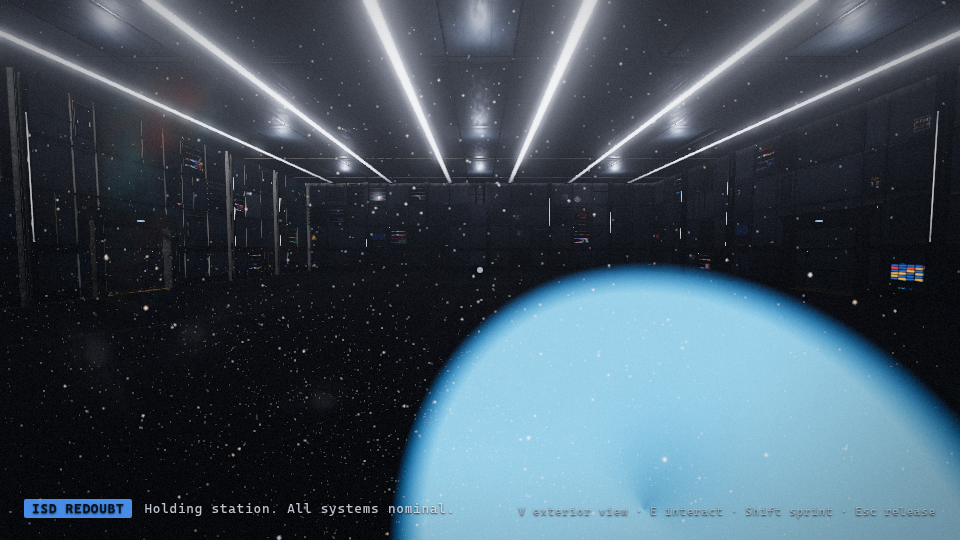
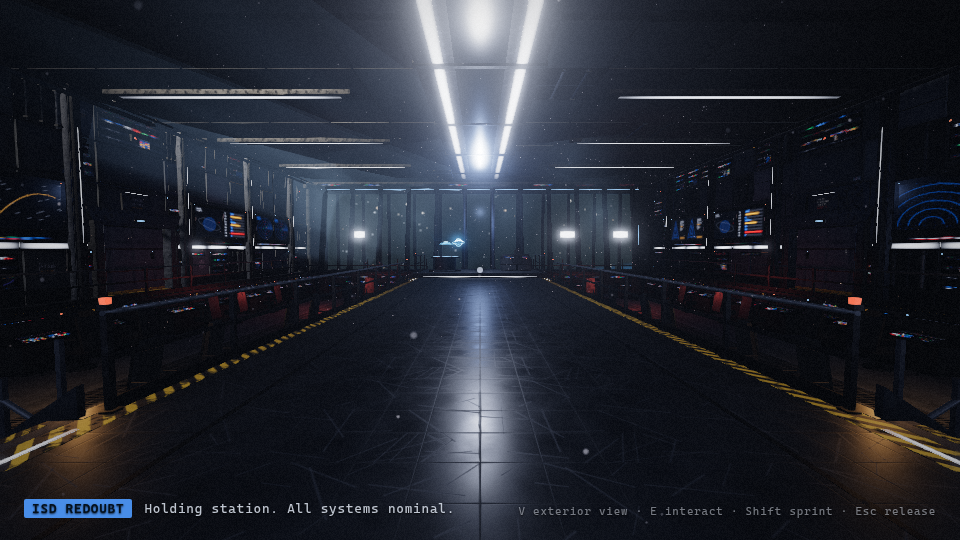
Integrate the bridge; glazing from deck level (bow is only 9° below a standing eye); hull materials exempt from interior fog so the hull reads through the glazing; toned-down dais emblem

diff --git a/src/core/layout.js b/src/core/layout.js
@@ -113,10 +113,11 @@ export const TOWER = {
   ],
   bridge: { x: 120, z0: 170, z1: 230, y0: 195, y1: 235 },
   // glazing slots on the forward face (z = bridge.z0)
-  // glazing starts 0.5 m above the bridge deck (y 210) so a standing officer sees the hull ahead
+  // glazing runs from the bridge deck (y 210) up: the bow is only 9° below a standing eye 1.3 km away, so a
+  // sill at any height above the deck would hide the hull from the dais
   windows: [
-    { x0: -34, x1: 34, y0: 210.5, y1: 216.5 },
-    { x0: -84, x1: -62, y0: 210.5, y1: 215.5 },
+    { x0: -34, x1: 34, y0: 210.0, y1: 216.5 },
+    { x0: -84, x1: -62, y0: 210.0, y1: 215.5 },
   ],
   globes: { x: 92, y: 253, z: 200, r: 22 },
   mast: { x: 0, z: 200, y0: 235, y1: 290, w: 12, dishR: 10, tipY: 305 },
@@ -162,10 +163,10 @@ const R = (id, cluster, title, floor, h, box, extra = {}) => ({ id, cluster, tit
 
 export const ROOMS = [
   // ---- TOWER (floor 210)
-  R("bridge", "tower", "Main Command Bridge", 210, 7, [-14, 14, 172, 206], { accent: "bridge", spawn: [0, 210, 200, 0], windows: [{ side: "zmin", x0: -13, x1: 13, v0: 0.5, v1: 6.5 }] }),
-  R("tactical", "tower", "Tactical Operations / Holo Planning", 210, 6, [-34, -16, 172, 206], { accent: "bridge", spawn: [-25, 210, 200, 0], windows: [{ side: "zmin", x0: -33, x1: -17, v0: 0.5, v1: 5.5 }] }),
-  R("nav_station", "tower", "Secondary Navigation / Flight Control", 210, 6, [16, 34, 172, 206], { accent: "bridge", spawn: [25, 210, 200, 0], windows: [{ side: "zmin", x0: 17, x1: 33, v0: 0.5, v1: 5.5 }] }),
-  R("observation", "tower", "Observation Gallery", 210, 6, [-84, -62, 172, 206], { accent: "bridge", spawn: [-73, 210, 200, 0], windows: [{ side: "zmin", x0: -83, x1: -63, v0: 0.5, v1: 5.5 }] }),
+  R("bridge", "tower", "Main Command Bridge", 210, 7, [-14, 14, 172, 206], { accent: "bridge", spawn: [0, 210, 200, 0], windows: [{ side: "zmin", x0: -13, x1: 13, v0: 0.0, v1: 6.5 }] }),
+  R("tactical", "tower", "Tactical Operations / Holo Planning", 210, 6, [-34, -16, 172, 206], { accent: "bridge", spawn: [-25, 210, 200, 0], windows: [{ side: "zmin", x0: -33, x1: -17, v0: 0.0, v1: 5.5 }] }),
+  R("nav_station", "tower", "Secondary Navigation / Flight Control", 210, 6, [16, 34, 172, 206], { accent: "bridge", spawn: [25, 210, 200, 0], windows: [{ side: "zmin", x0: 17, x1: 33, v0: 0.0, v1: 5.5 }] }),
+  R("observation", "tower", "Observation Gallery", 210, 6, [-84, -62, 172, 206], { accent: "bridge", spawn: [-73, 210, 200, 0], windows: [{ side: "zmin", x0: -83, x1: -63, v0: 0.0, v1: 5.5 }] }),
   R("cmd_corridor", "tower", "Command Deck Corridor", 210, 4.5, [-84, 60, 206, 212], { accent: "corridor", spawn: [0, 210, 209, 90] }),
   R("lift_lobby_tower", "tower", "Turbolift Lobby — Command Deck", 210, 4.5, [-6, 6, 212, 222], { accent: "corridor", spawn: [0, 210, 216, 180], lift: { cabs: [{ x0: -5, x1: -1 }, { x0: 1, x1: 5 }], wall: "zmax", z0: 222, z1: 225 } }),
   R("intelligence", "tower", "Restricted Intelligence Room", 210, 4.5, [-60, -40, 212, 228], { accent: "detention", spawn: [-50, 210, 220, 0] }),

diff --git a/src/rooms/tower/bridge.js b/src/rooms/tower/bridge.js
@@ -531,7 +531,8 @@ function buildDais(ctx) {
   }
   for (const s of [-1, 1]) kit.boxMM("metal", [Math.min(s * WALK_X - s * 0.05, s * WALK_X + s * 0.07), y - 0.06, DAIS.z0], [Math.max(s * WALK_X - s * 0.05, s * WALK_X + s * 0.07), y + 0.02, DAIS.z1], { color: IMP.steelDark });
   // inlaid emblem on the dais deck
-  kit.add("decal", new THREE.PlaneGeometry(1.8, 1.8), { pos: [0, y + 0.003, 178.8], rot: [-Math.PI / 2, 0, 0], uv: "keep", uvRect: decalRect(DECAL.EMBLEM) });
+  // toned-down inlay (vertex tint): a white stencil under the dais spot bloomed
+  kit.add("decal", new THREE.PlaneGeometry(1.8, 1.8), { pos: [0, y + 0.003, 178.8], rot: [-Math.PI / 2, 0, 0], uv: "keep", uvRect: decalRect(DECAL.EMBLEM), color: 0x5c6068 });
   // commander's station (starboard, facing the glazing) with its seat
   props.consoleStation(kit, { pos: [2.45, y, 177.05], yaw: 0, w: 2.1, d: 0.85, h: 1.0, screens: 3, accent: "emitBlue", seed: 41, screenSet: [1, 0, 4] });
   props.chair(kit, { pos: [2.45, y, 177.75], yaw: 0 });

diff --git a/src/materials.js b/src/materials.js
@@ -91,6 +91,8 @@ export function buildMaterials({ mobile = false } = {}) {
     holo: new THREE.MeshBasicMaterial({ color: 0x5fb8ff, transparent: true, opacity: 0.35, blending: THREE.AdditiveBlending, depthWrite: false, side: THREE.DoubleSide }),
     field: makeFieldMaterial(),
   };
+  // the hull lives in vacuum: never let the interior haze fog it (it is seen through the bridge glazing)
+  for (const k of ["hull", "hullDark", "engineGlow"]) mats[k].fog = false;
   mats.timings = timings;
   // back-compat aliases used by shared helpers
   mats.emitTeal = mats.emitCyan;

diff --git a/PLAN.md b/PLAN.md
@@ -64,7 +64,7 @@ been visited for a while.
 ### Cluster TOWER (floor y = 210, inside bridge block x ±120, z 170..230)
 | room | x | z | h | doors |
 |---|---|---|---|---|
-| bridge | −14..14 | 172..206 | 7 | aft z=206 x −2..2 (blast) → cmd_corridor; port x=−14 z 186..189 → tactical; stbd x=14 z 186..189 → nav_station. Forward glazing z=172, x −13..13, y 210.5..216.5, leaning out 12°. Crew pits y 208.6 at x ∈ [−12,−4] and [4,12], z 176..202, steps at both ends. |
+| bridge | −14..14 | 172..206 | 7 | aft z=206 x −2..2 (blast) → cmd_corridor; port x=−14 z 186..189 → tactical; stbd x=14 z 186..189 → nav_station. Forward glazing z=172, x −13..13, y 210..216.5 (deck level up), leaning out 12°. Crew pits y 208.6 at x ∈ [−12,−4] and [4,12], z 176..202, steps at both ends. |
 | tactical | −34..−16 | 172..206 | 6 | east x=−16 z 186..189 → bridge; aft z=206 x −26..−23 → cmd_corridor. Forward windows (shuttered). |
 | nav_station | 16..34 | 172..206 | 6 | west x=16 z 186..189 → bridge; aft z=206 x 23..26. Forward windows. |
 | observation | −84..−62 | 172..206 | 6 | aft z=206 x −75..−72. Forward windows x −83..−63. |
@@ -75,7 +75,7 @@ been visited for a while.
 | comms | 8..38 | 212..228 | 5 | z=212 x 21..24 |
 | officers_quarters | 40..60 | 212..228 | 4 | z=212 x 48..51 |
 
-Tower face windows (exterior, z = 170): continuous slot x −34..34 and x −84..−62, y 210.5..216.5.
+Tower face windows (exterior, z = 170): continuous slot x −34..34 and x −84..−62, y 210..216.5.
 
 ### Cluster HANGAR (floor y = −40)
 | room | x | z | h | doors / notes |
